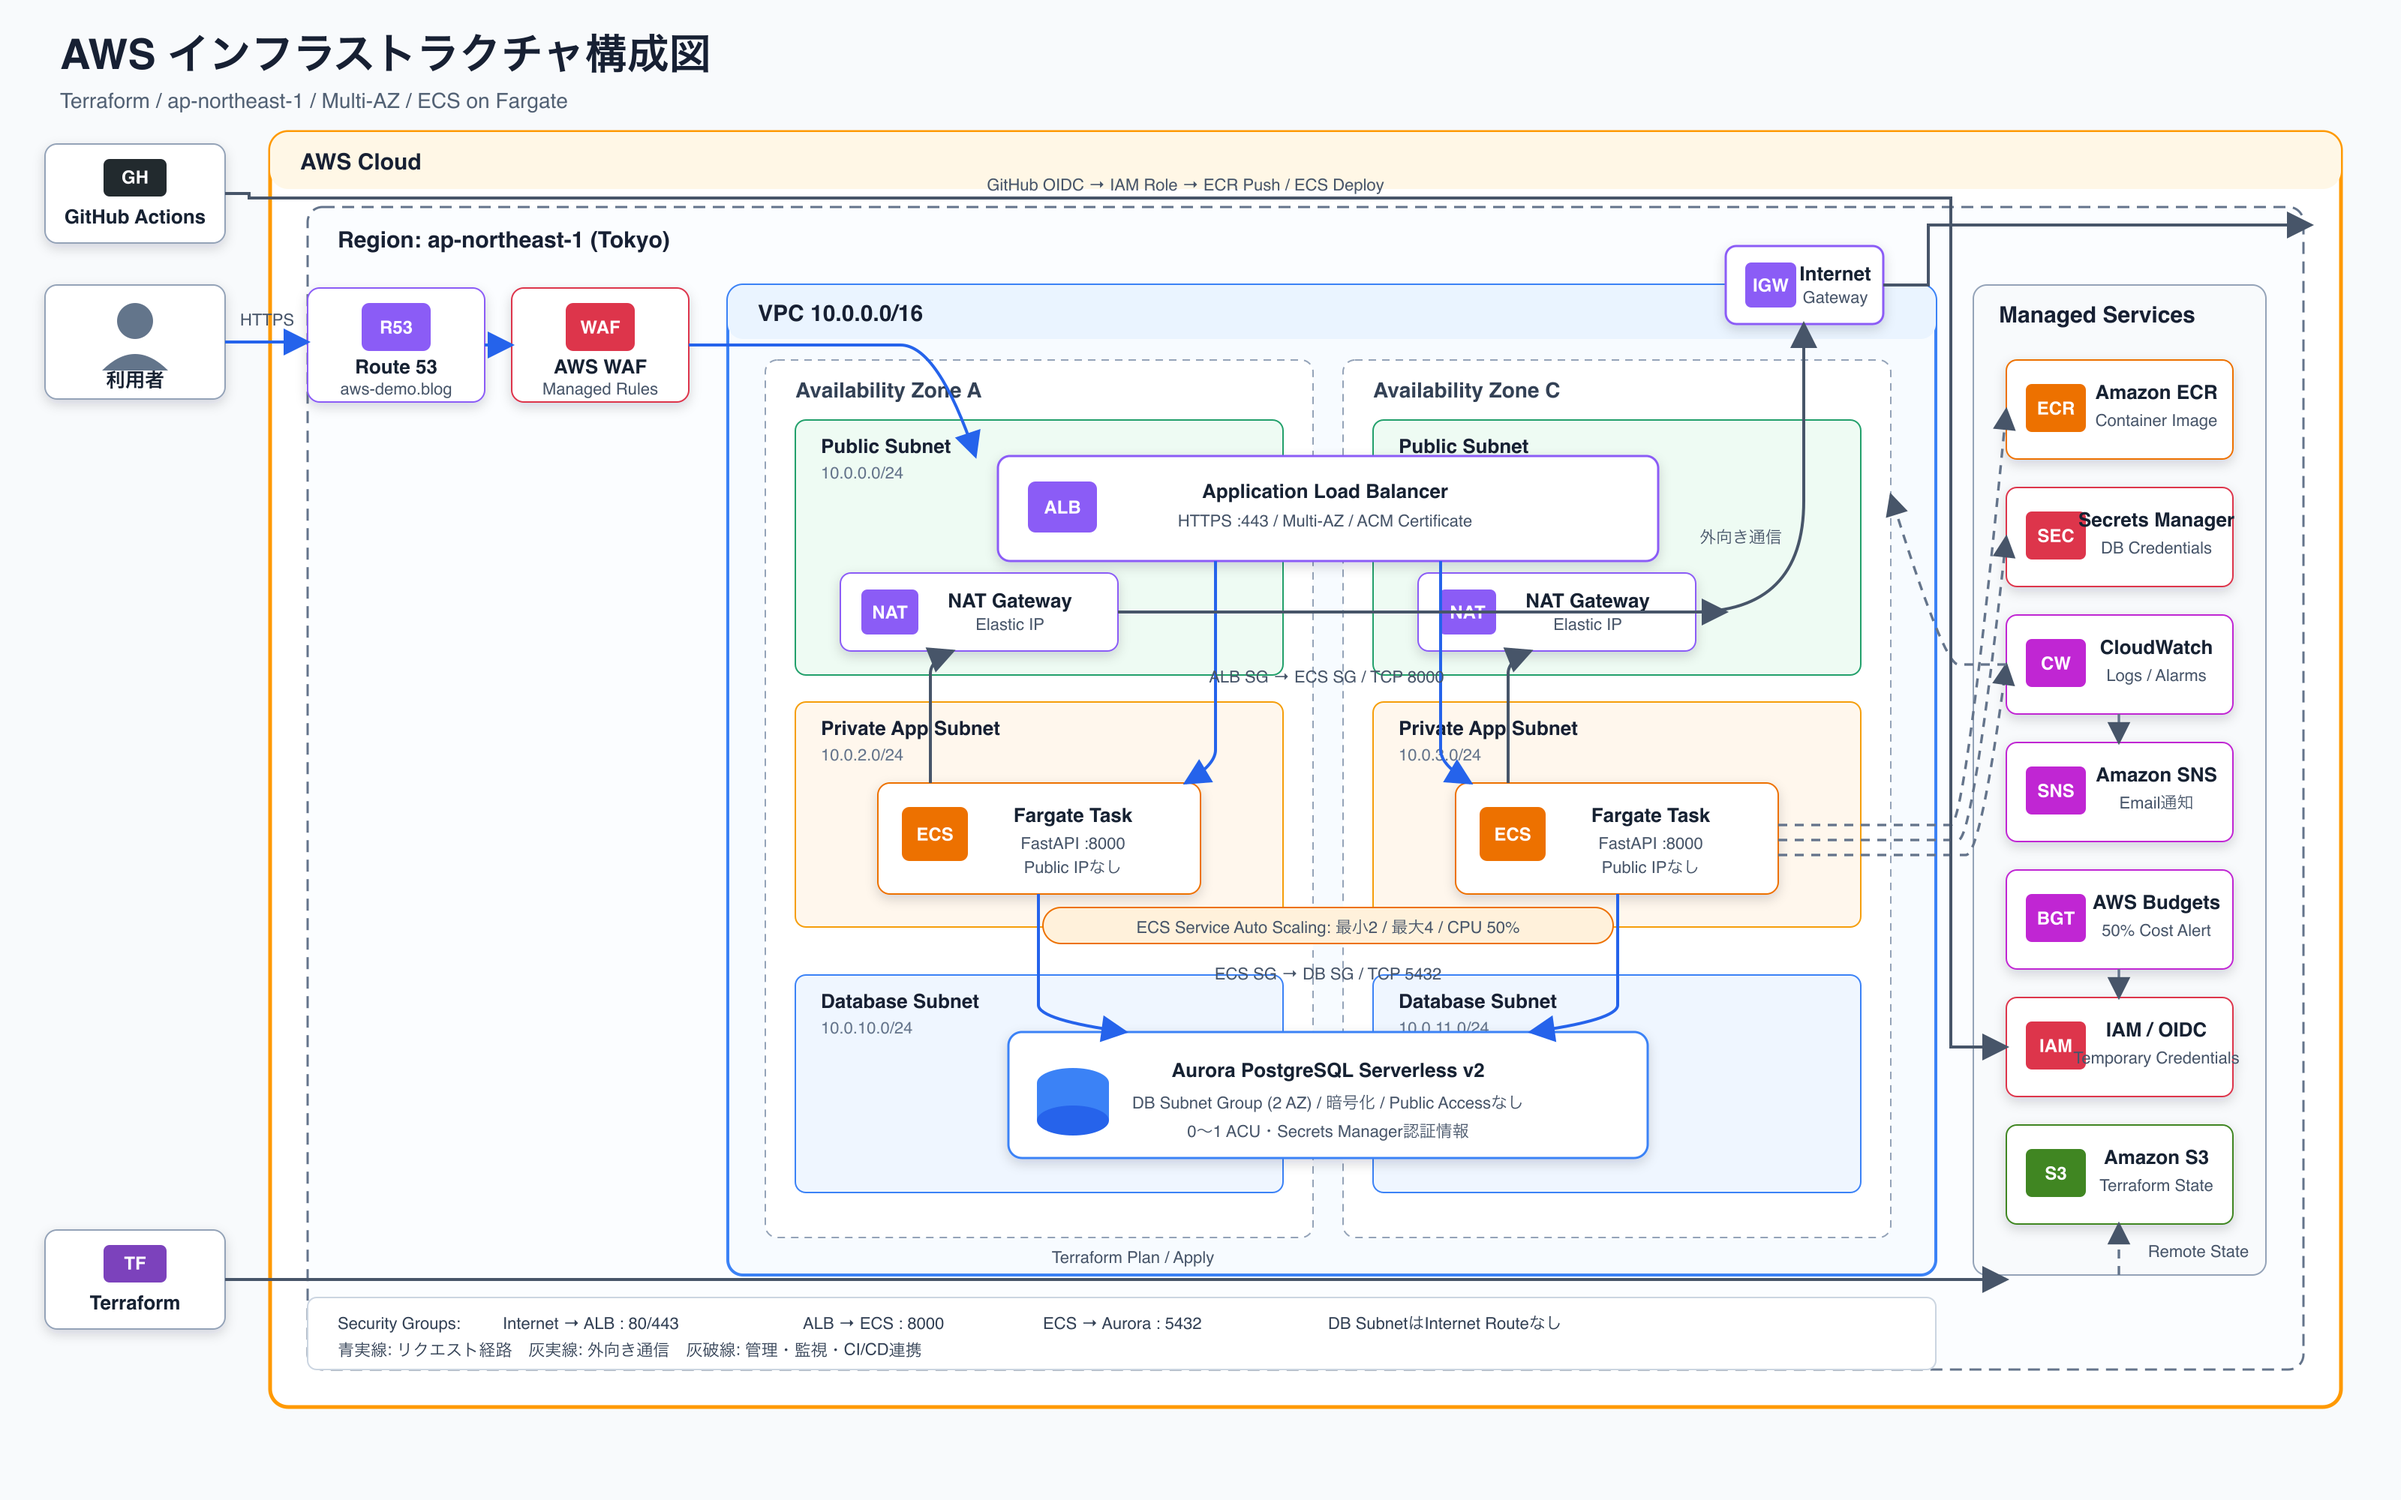
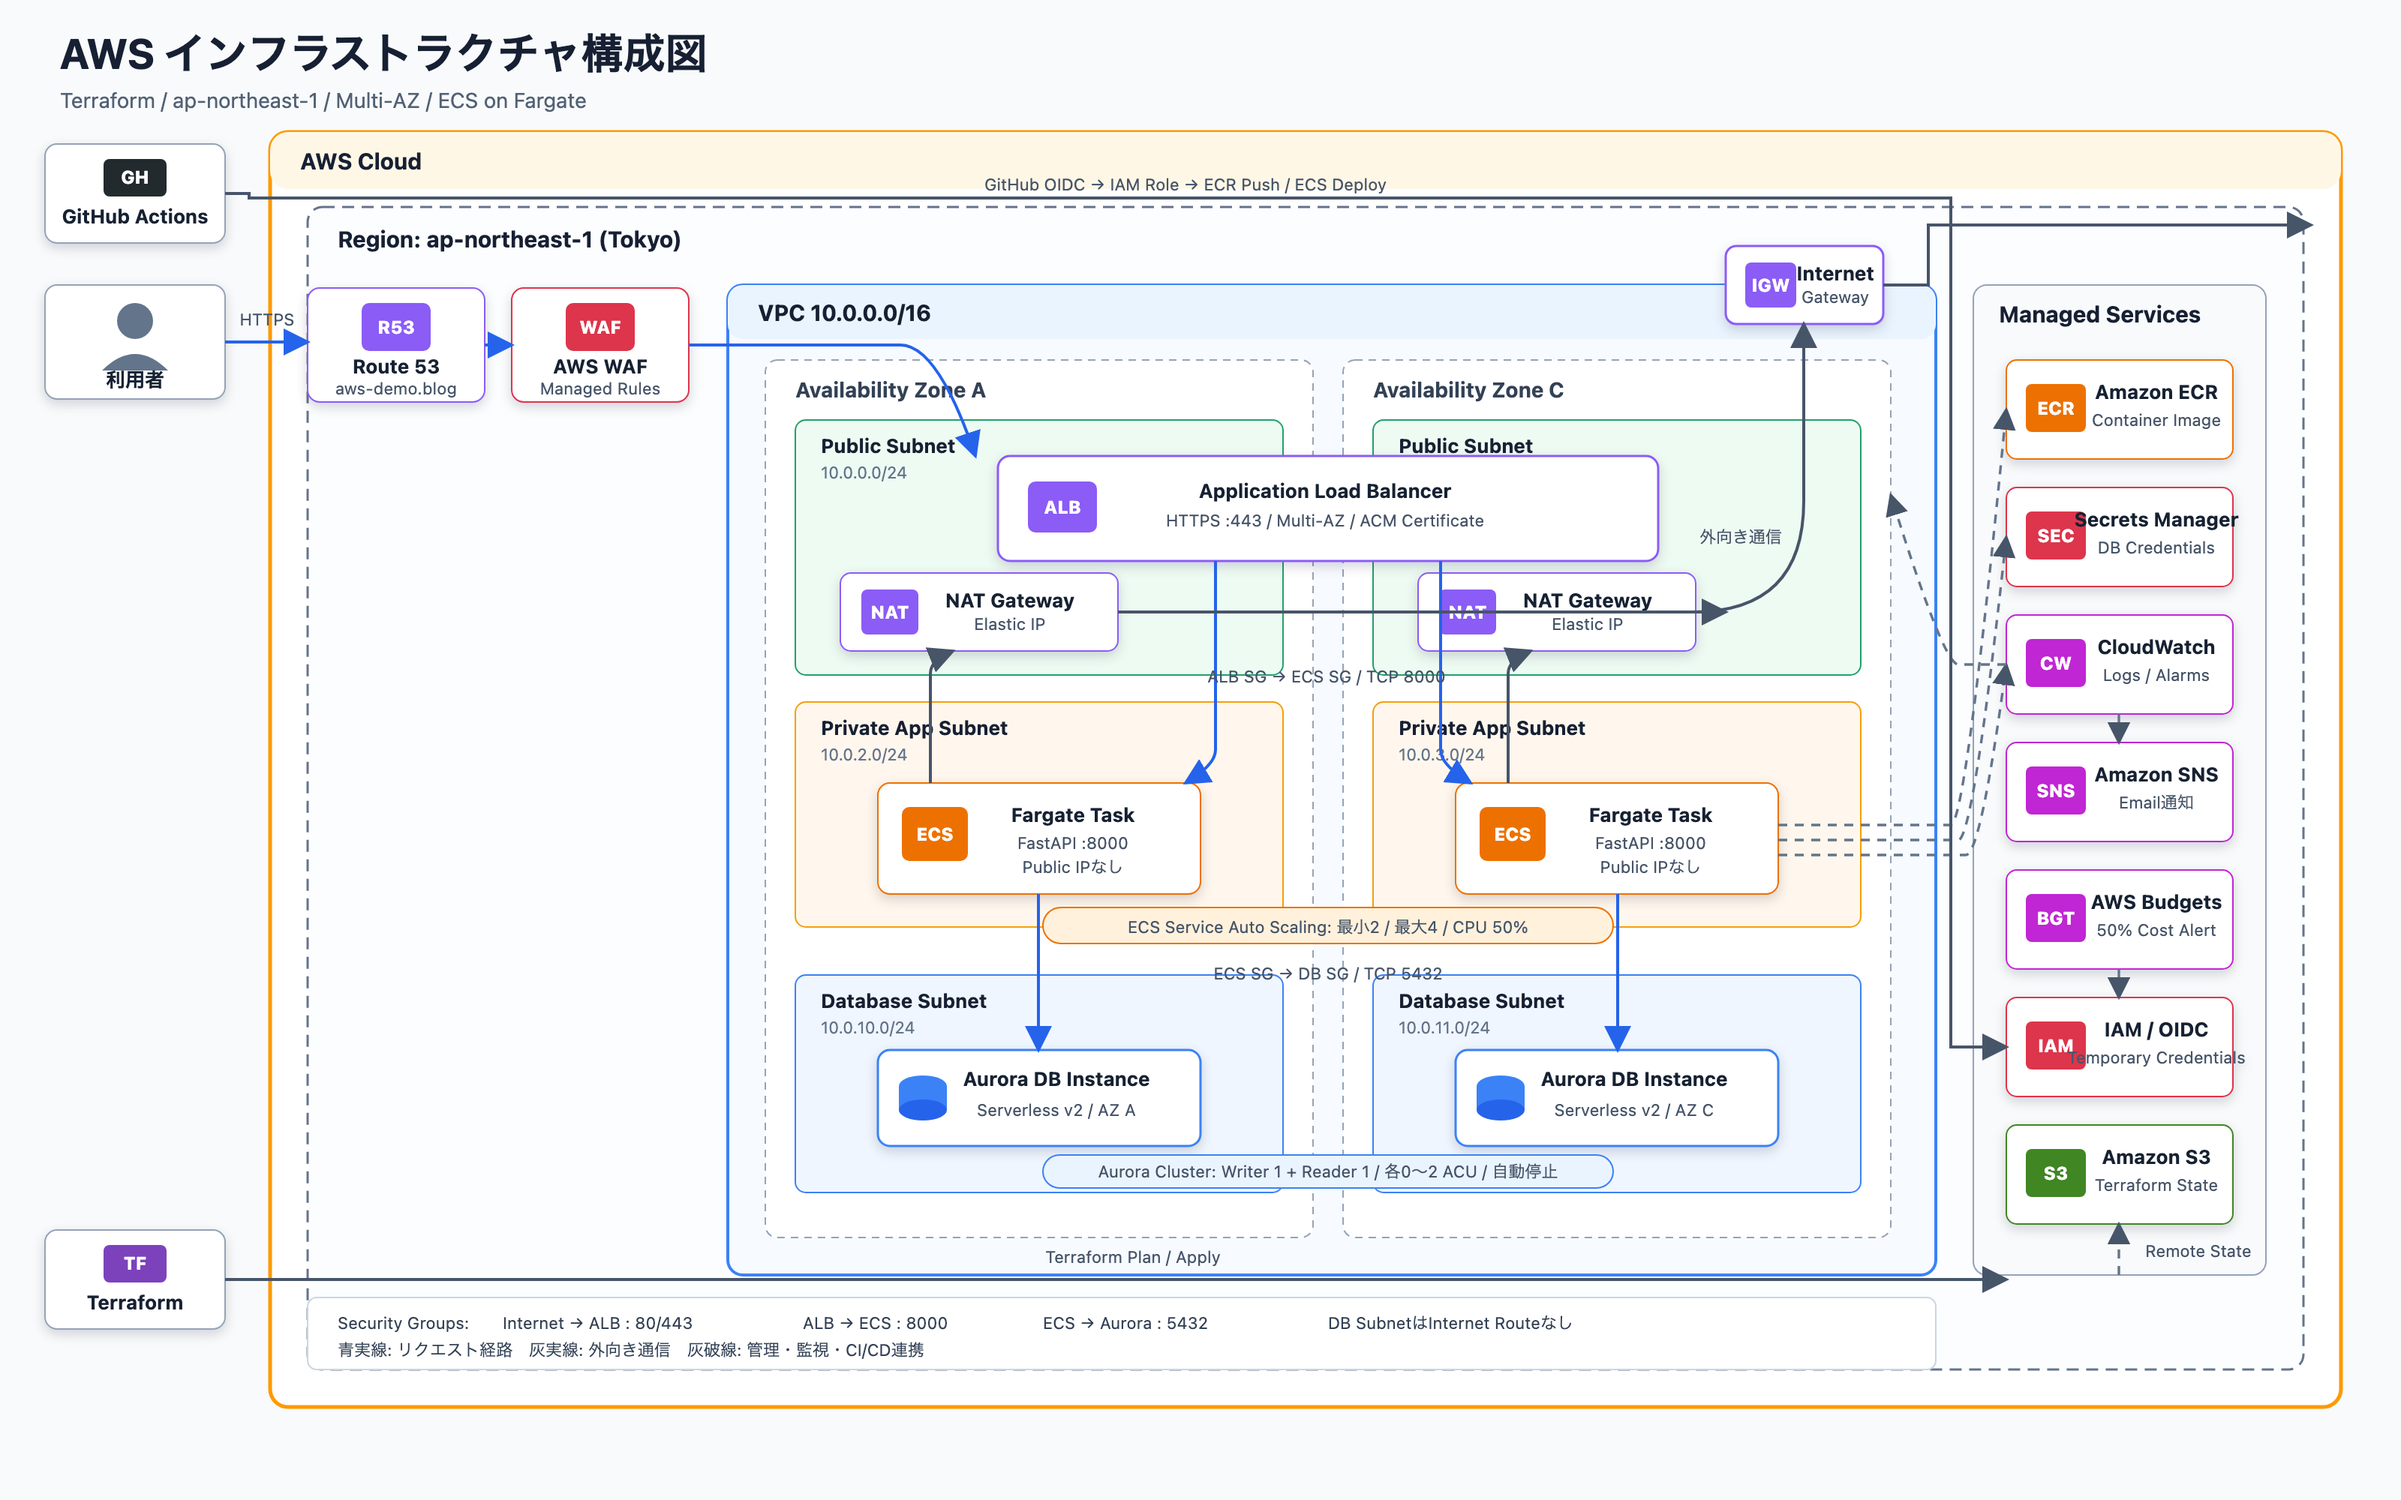
Add multi-AZ Aurora instances

diff --git a/docs/cost-estimate.md b/docs/cost-estimate.md
@@ -6,7 +6,7 @@
 
 - 東京リージョン
 - ECS Task: 0.25 vCPU / 0.5 GiB、通常2 Task（Auto Scalingで最大4 Task）
-- Aurora Serverless v2: 0〜1 ACU、10分で自動停止
+- Aurora Serverless v2: 2 DBインスタンス、各0〜2 ACU（合計最大4 ACU）、10分で自動停止
 - 小規模な個人ポートフォリオの通信量
 - ドメイン取得・更新費はAWS費用に含めない
 
@@ -17,7 +17,7 @@
 | Application Load Balancer | 稼働時間、LCU | 公開期間だけ作成する |
 | ECS Fargate | vCPU、メモリ、タスク数、稼働時間 | 最小Taskサイズ、2〜4 Task、公開終了時に削除 |
 | NAT Gateway | 2台の稼働時間、処理データ量、Public IPv4 | デモ公開期間だけ作成 |
-| Aurora Serverless v2 | ACU稼働時間、ストレージ、I/O | 0 ACU自動停止、最大1 ACU |
+| Aurora Serverless v2 | 2 DBインスタンスのACU稼働時間、ストレージ、I/O | 各インスタンス0 ACU自動停止、各最大2 ACU |
 | AWS WAF | Web ACL、Rule、Request | 必要最小限のManaged Rule |
 | Route 53 | Hosted Zone、DNS Query | Hosted Zoneを1つに限定 |
 | CloudWatch | Logs、Metrics、Alarm | Logsを7日保持 |

diff --git a/docs/architecture.md b/docs/architecture.md
@@ -21,7 +21,7 @@ Public ALB（2 AZ）
 ECS/Fargate（Private App Subnet、Public IPなし、2 AZ）
   │ PostgreSQL :5432 / Security Group参照
   ▼
-Aurora PostgreSQL Serverless v2（Private DB Subnet、2 AZ）
+Aurora PostgreSQL Serverless v2（Private DB Subnet、各AZに1 DBインスタンス）
 
 ECS/Fargate
   │ 外向き通信
@@ -40,8 +40,9 @@ Private App SubnetはAZごとにRoute Tableを持ち、同じAZのNAT Gatewayへ
 
 ## Auroraの自動停止
 
-- Aurora PostgreSQL Serverless v2を1 Writerで使用
-- 最小0 ACU、最大1 ACU
+- Aurora PostgreSQL Serverless v2を2 DBインスタンスで使用（通常はWriter 1台、Reader 1台）
+- 各AZに1台ずつ配置し、障害時はReaderをWriterへ昇格
+- 各DBインスタンスが最小0 ACU、最大2 ACU（2台合計では最大4 ACU）
 - 10分間アイドルで自動停止
 - `/health` はDBへ接続しないため、ALBの確認でAuroraを起こさない
 - APIは接続失敗時に再試行する

diff --git a/README.md b/README.md
@@ -32,7 +32,7 @@ FastAPIアプリケーションと、その実行基盤となるAWS環境をTerr
 
 - FastAPIによるWeb画面、REST API、ヘルスチェック
 - SQLAlchemyとAlembicによるデータアクセスとスキーマ移行
-- Aurora PostgreSQL Serverless v2を採用し、アイドル時は0 ACUへ自動停止
+- Aurora PostgreSQL Serverless v2を2 AZに1台ずつ配置し、アイドル時は0 ACUへ自動停止
 - Read-only Root Filesystemと非Rootユーザーでコンテナを実行
 
 ### CI/CDと品質管理
